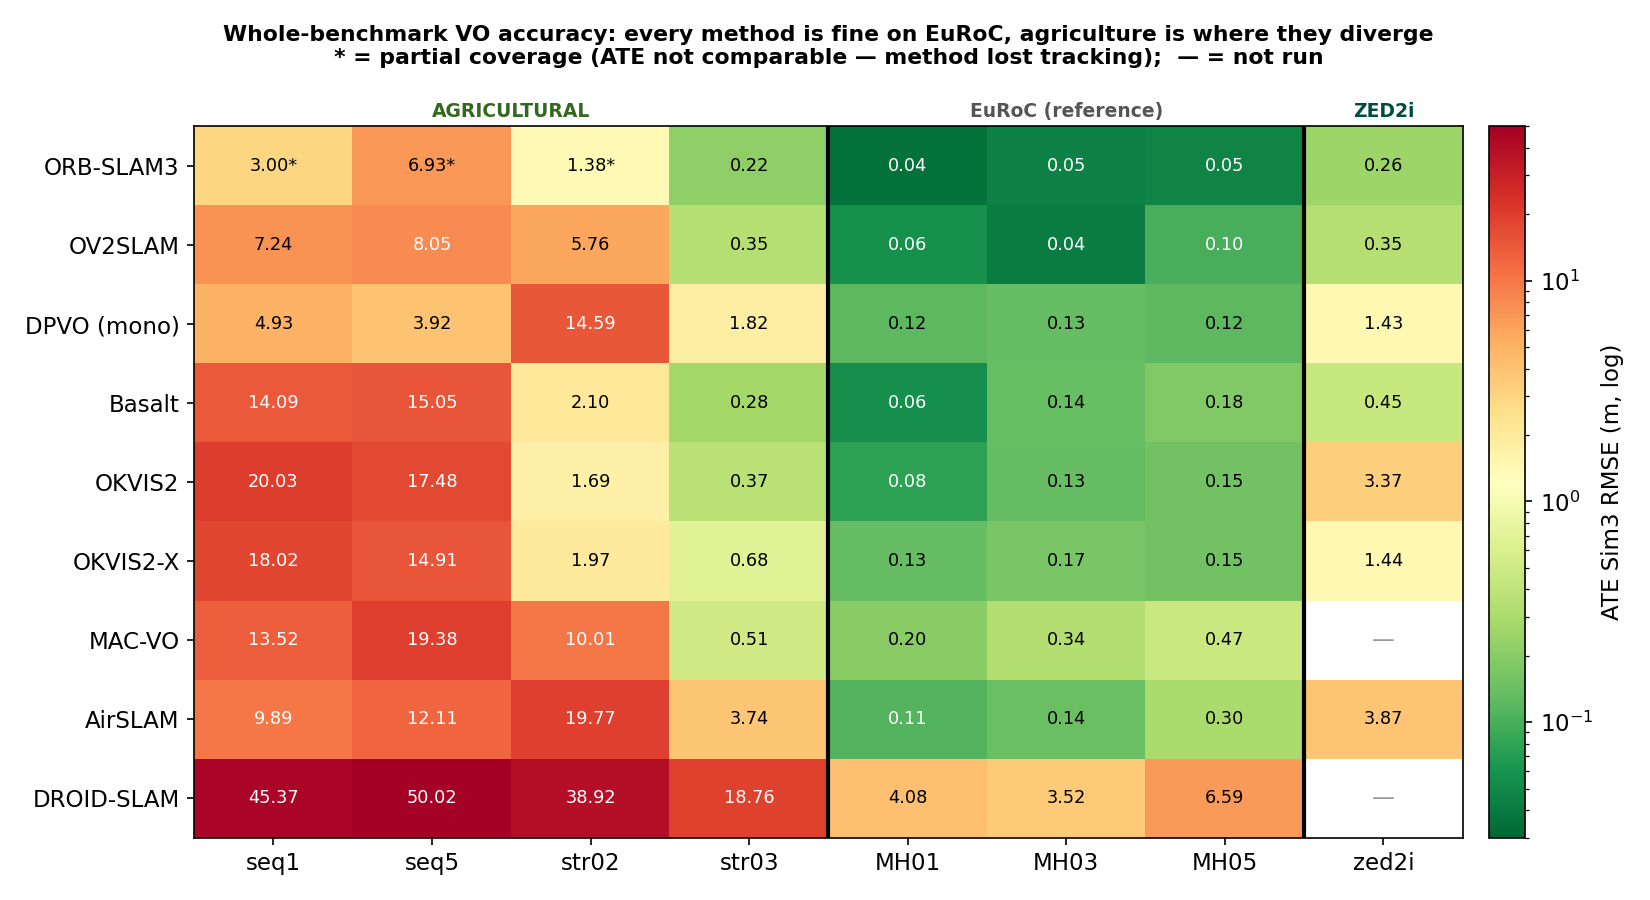
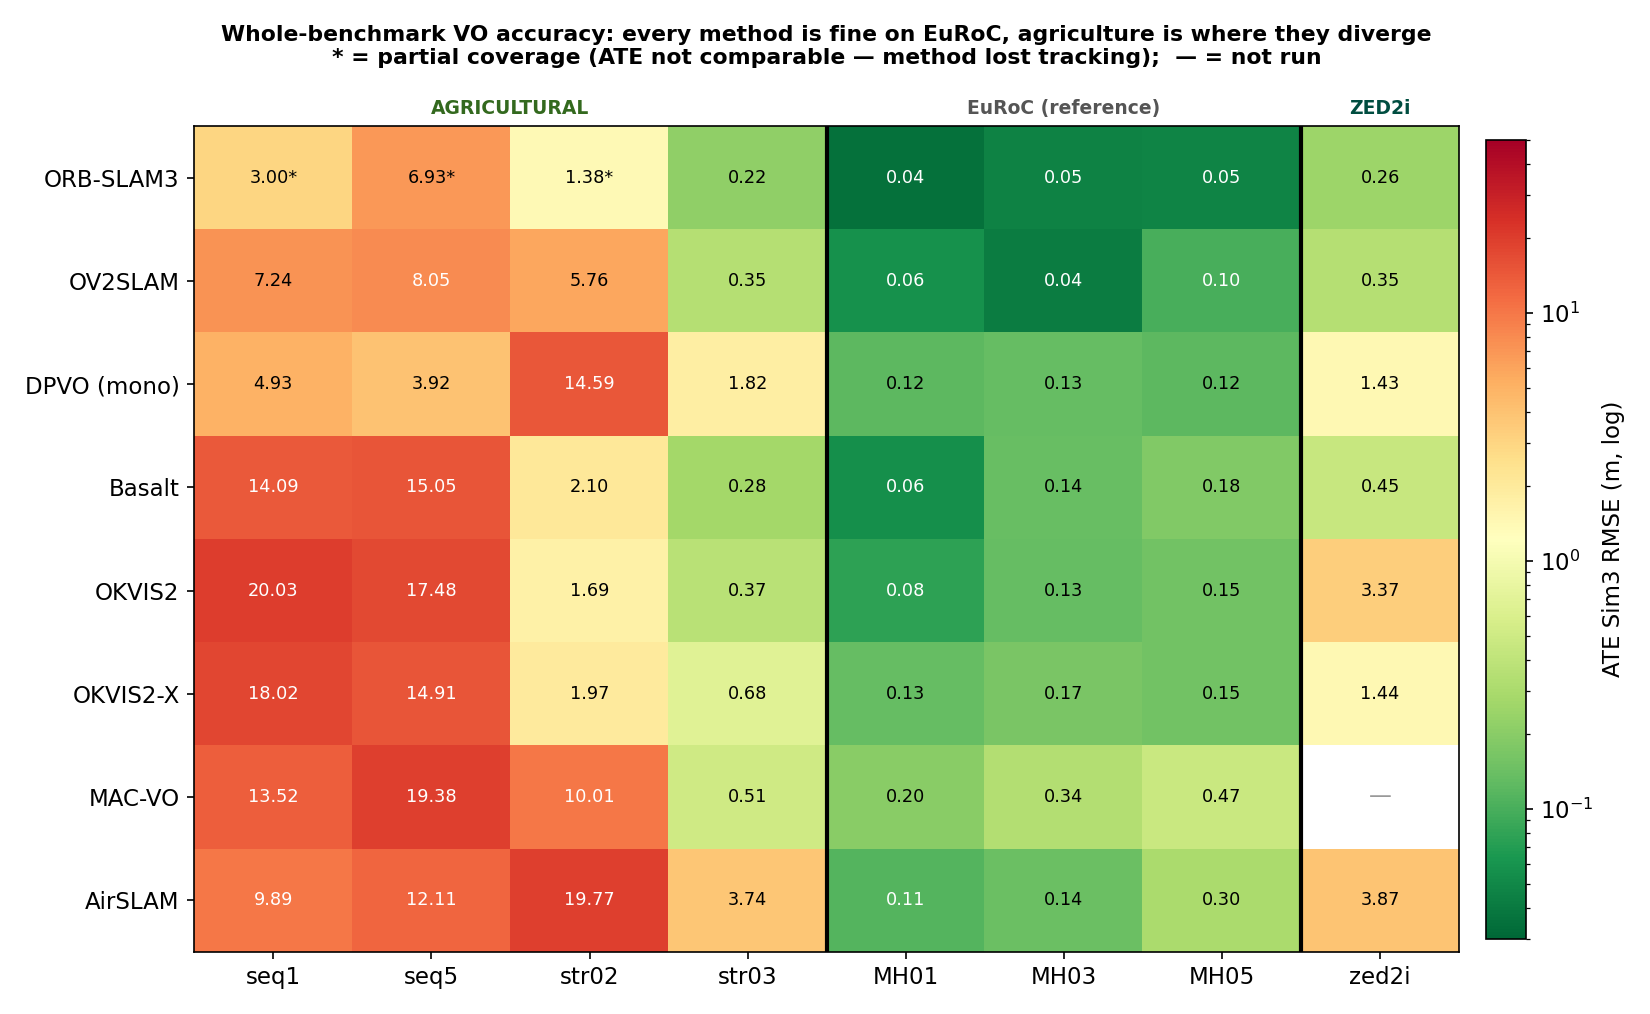
Drop DROID-SLAM from figures; add VIO master heatmap and run-to-run determinism figure

diff --git a/scripts/eval/make_report_figures.py b/scripts/eval/make_report_figures.py
@@ -116,22 +116,29 @@ def load_cov(m):
     import statistics as st
     return {k: st.median(v) for k, v in d.items()}
 
-# ── FIG C: whole-benchmark ATE heatmap (VO) — the overview ──────────────────
-def fig_master():
+# ── FIG C: whole-benchmark ATE heatmaps (VO + VIO overview pair) ─────────────
+def load_scale(m):
+    d = {}
+    for r in csv.DictReader(open(f"{WS}/benchmark-{m}.csv")):
+        try: d.setdefault((r["algo"], r["dataset"], r["seq"]), []).append(float(r["scale_factor"]))
+        except: pass
+    import statistics as st
+    return {k: st.median(v) for k, v in d.items()}
+
+MASTER_COLS = [("rosariov2", "sequence1", "seq1"), ("rosariov2", "sequence5", "seq5"),
+               ("hortimulti", "strawberry02", "str02"), ("hortimulti", "strawberry03", "str03"),
+               ("euroc_mav", "MH_01_easy", "MH01"), ("euroc_mav", "MH_03_medium", "MH03"),
+               ("euroc_mav", "MH_05_difficult", "MH05"), ("zed2i", "field1_110426_full_10fps_q90", "zed2i")]
+
+def _master(mode, rows, title, fname):
     from matplotlib.colors import LogNorm
-    VO, COV = load_csv("vo"), load_cov("vo")
-    rows = [("orbslam3", "ORB-SLAM3"), ("ov2slam", "OV2SLAM"), ("dpvo", "DPVO (mono)"),
-            ("basalt", "Basalt"), ("okvis2", "OKVIS2"), ("okvis2x", "OKVIS2-X"),
-            ("macvo", "MAC-VO"), ("airslam", "AirSLAM"), ("droidslam", "DROID-SLAM")]
-    cols = [("rosariov2", "sequence1", "seq1"), ("rosariov2", "sequence5", "seq5"),
-            ("hortimulti", "strawberry02", "str02"), ("hortimulti", "strawberry03", "str03"),
-            ("euroc_mav", "MH_01_easy", "MH01"), ("euroc_mav", "MH_03_medium", "MH03"),
-            ("euroc_mav", "MH_05_difficult", "MH05"), ("zed2i", "field1_110426_full_10fps_q90", "zed2i")]
+    ATE, COV, SC = load_csv(mode), load_cov(mode), load_scale(mode)
+    cols = MASTER_COLS
     M = np.full((len(rows), len(cols)), np.nan)
     for i, (a, _) in enumerate(rows):
         for j, (ds, sq, _) in enumerate(cols):
-            if (a, ds, sq) in VO: M[i, j] = VO[(a, ds, sq)]
-    fig, ax = plt.subplots(figsize=(11, 6))
+            if (a, ds, sq) in ATE: M[i, j] = ATE[(a, ds, sq)]
+    fig, ax = plt.subplots(figsize=(11, 0.62 * len(rows) + 1.8))
     im = ax.imshow(M, cmap="RdYlGn_r", norm=LogNorm(vmin=0.03, vmax=50), aspect="auto")
     ax.set_xticks(range(len(cols))); ax.set_xticklabels([c[2] for c in cols], fontsize=11)
     ax.set_yticks(range(len(rows))); ax.set_yticklabels([r[1] for r in rows], fontsize=11)
@@ -142,14 +149,32 @@ def fig_master():
         for j, (ds, sq, _) in enumerate(cols):
             v = M[i, j]
             if np.isnan(v): ax.text(j, i, "—", ha="center", va="center", color="#999"); continue
-            partial = COV.get((a, ds, sq), 100) < 90
-            ax.text(j, i, f"{v:.2f}" + ("*" if partial else ""), ha="center", va="center", fontsize=8.5,
+            mark = ""
+            if COV.get((a, ds, sq), 100) < 90: mark += "*"
+            # scale collapse marker — not for monocular methods (up-to-scale by design)
+            if a not in ("dpvo", "droidslam") and SC.get((a, ds, sq), 1) < 0.5: mark += "✗"
+            ax.text(j, i, f"{v:.2f}{mark}", ha="center", va="center", fontsize=8.5,
                     color="white" if (v < 0.12 or v > 8) else "black")
     cb = fig.colorbar(im, ax=ax, fraction=0.03, pad=0.02); cb.set_label("ATE Sim3 RMSE (m, log)")
-    ax.set_title("Whole-benchmark VO accuracy: every method is fine on EuRoC, agriculture is where they diverge\n"
-                 "* = partial coverage (ATE not comparable — method lost tracking);  — = not run",
-                 fontweight="bold", fontsize=10.5, pad=30)
-    fig.tight_layout(); p = f"{OUT}/fig_master_vo_heatmap.png"; fig.savefig(p); print(p)
+    ax.set_title(title, fontweight="bold", fontsize=10.5, pad=30)
+    fig.tight_layout(); p = f"{OUT}/{fname}"; fig.savefig(p); print(p)
+
+def fig_master():
+    # DROID-SLAM excluded: dropped from the benchmark (replaced by DPVO)
+    _master("vo",
+            [("orbslam3", "ORB-SLAM3"), ("ov2slam", "OV2SLAM"), ("dpvo", "DPVO (mono)"),
+             ("basalt", "Basalt"), ("okvis2", "OKVIS2"), ("okvis2x", "OKVIS2-X"),
+             ("macvo", "MAC-VO"), ("airslam", "AirSLAM")],
+            "Whole-benchmark VO accuracy: every method is fine on EuRoC, agriculture is where they diverge\n"
+            "* = partial coverage (ATE not comparable — method lost tracking);  — = not run",
+            "fig_master_vo_heatmap.png")
+    _master("vio",
+            [("orbslam3", "ORB-SLAM3"), ("basalt", "Basalt"), ("okvis2", "OKVIS2"),
+             ("okvis2x", "OKVIS2-X"), ("openvins", "OpenVINS"), ("voxel_svio", "Voxel-SVIO"),
+             ("airslam", "AirSLAM")],
+            "Whole-benchmark VIO accuracy: the ZED2i column exposes the weak-excitation collapse\n"
+            "✗ = scale collapse (Sim3 scale ≈ 0);  * = partial coverage;  — = not run / failed",
+            "fig_master_vio_heatmap.png")
 
 # ── FIG D: ORB-SLAM3 mode progression — IMU rescues coverage, LC fixes ATE ───
 def fig_progression():
@@ -181,5 +206,38 @@ def fig_progression():
                  fontweight="bold", fontsize=11)
     fig.tight_layout(rect=[0, 0, 1, 0.94]); p = f"{OUT}/fig_orb_progression.png"; fig.savefig(p); print(p)
 
-fig_excitation(); fig_lc_mechanism(); fig_master(); fig_progression()
+# ── FIG E: run-to-run spread — finding 11 (non-determinism) ─────────────────
+def fig_determinism():
+    # all individual runs (not medians) for the N=3 agricultural VO cells
+    runs = {}
+    for r in csv.DictReader(open(f"{WS}/benchmark-vo.csv")):
+        try: runs.setdefault((r["algo"], r["dataset"], r["seq"]), []).append(float(r["ate_sim3_rmse_m"]))
+        except: pass
+    algos = [("basalt", "Basalt", "#F44336"), ("macvo", "MAC-VO", "#4CAF50"),
+             ("airslam", "AirSLAM", "#00BCD4"), ("orbslam3", "ORB-SLAM3", "#2196F3")]
+    seqs = [("rosariov2", "sequence1", "seq1"), ("rosariov2", "sequence5", "seq5"),
+            ("hortimulti", "strawberry02", "str02"), ("hortimulti", "strawberry03", "str03")]
+    fig, ax = plt.subplots(figsize=(11, 5.5))
+    for gi, (ds, sq, sl) in enumerate(seqs):
+        for ai, (a, lab, col) in enumerate(algos):
+            v = runs.get((a, ds, sq), [])
+            if len(v) < 2: continue
+            xp = gi * (len(algos) + 1) + ai
+            ax.plot([xp, xp], [min(v), max(v)], color=col, lw=2.5, alpha=0.55)
+            ax.scatter([xp] * len(v), v, color=col, s=45, zorder=5,
+                       label=lab if gi == 0 else None, edgecolor="k", linewidth=0.4)
+    ax.set_yscale("log")
+    ax.set_xticks([gi * (len(algos) + 1) + (len(algos) - 1) / 2 for gi in range(len(seqs))])
+    ax.set_xticklabels([s[2] for s in seqs], fontsize=12)
+    ax.set_ylabel("ATE Sim3 (m, log) — individual runs (N=3)")
+    ax.grid(axis="y", alpha=0.3); ax.legend(loc="upper right", fontsize=10)
+    # worst max/min ratio across ORB-SLAM3 agri cells, from the data actually plotted
+    orb_ratio = max(max(v) / min(v) for (a, ds, sq), v in runs.items()
+                    if a == "orbslam3" and len(v) >= 2 and ds in ("rosariov2", "hortimulti"))
+    ax.set_title("Run-to-run spread on agricultural sequences (identical binary + config, 3 runs):\n"
+                 f"Basalt / MAC-VO / AirSLAM reproduce (<8% CV) — ORB-SLAM3 varies up to {orb_ratio:.1f}× between runs",
+                 fontweight="bold", fontsize=11)
+    fig.tight_layout(); p = f"{OUT}/fig_determinism.png"; fig.savefig(p); print(p)
+
+fig_excitation(); fig_lc_mechanism(); fig_master(); fig_progression(); fig_determinism()
 print("done ->", OUT)
